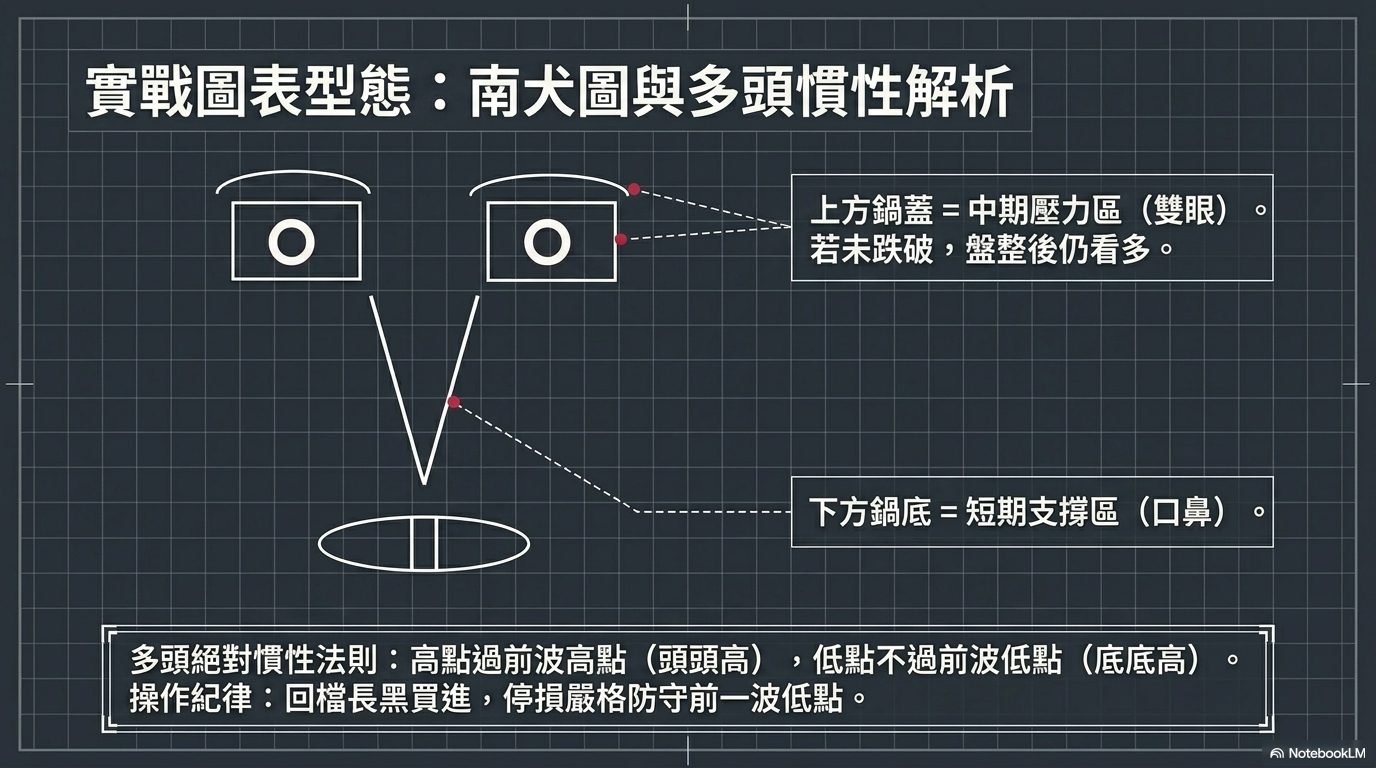
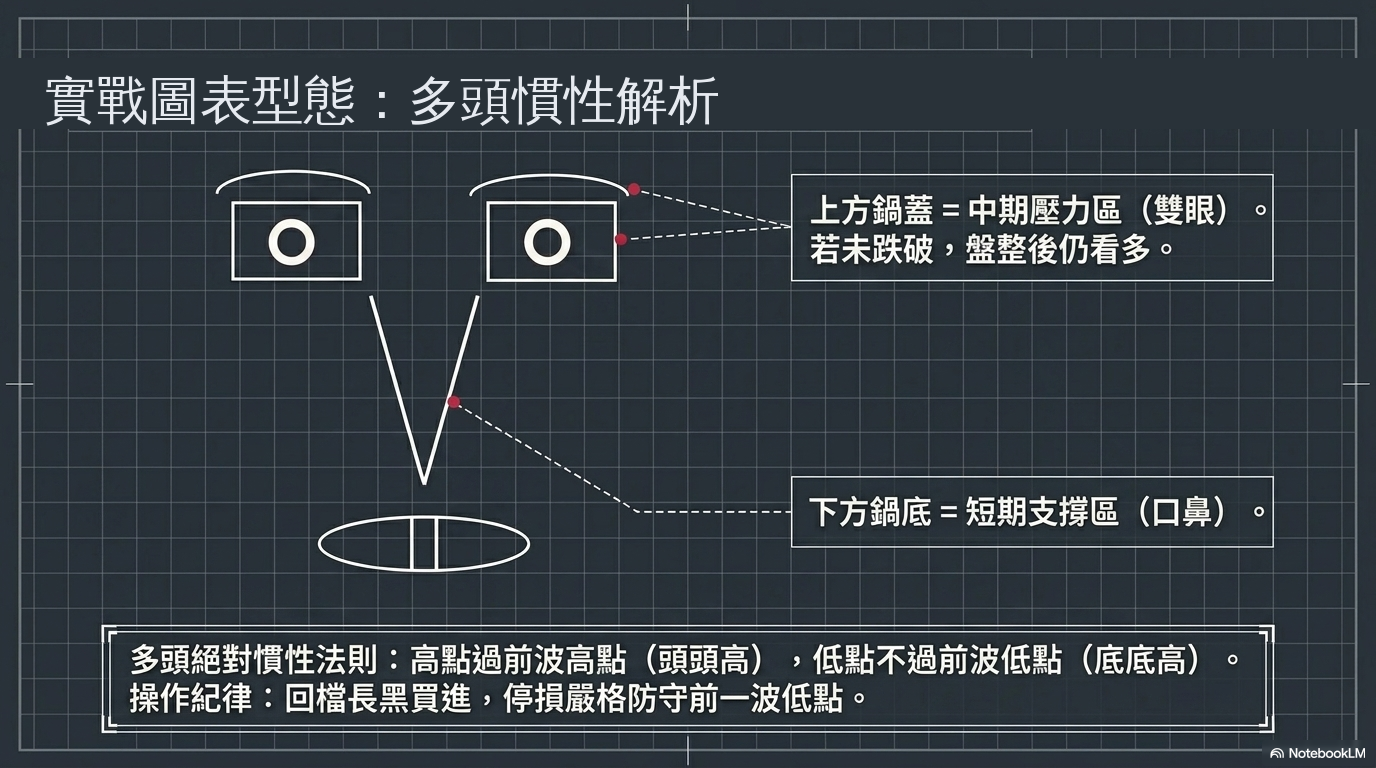
Fix slideshow overlay coverage and slide 16 dark style
- Remove HTML overlays from slides 5 and 14 (PIL-patched images now
  have correct titles drawn directly onto the PNG)
- Add back overlay CSS for slide 13 green/red annotation boxes
- Replace <h3> tags in slide 16 summary with .sum-col-head divs
- Wrap slide 16 eyebrow+title in .sum-header for proper spacing

Claude-Session: https://claude.ai/code/session_01A9Lcda2dgovrmeAKrJ8xKb

Changed region(s): [[0.0, 0.0625, 0.75, 0.1875]]

diff --git a/slideshow.html b/slideshow.html
@@ -61,62 +61,58 @@
   .slide-box.fading{ opacity:0; }
   .slide-img{ width:100%; height:auto; display:block; }
 
-  /* Overlay patches */
-  .ovr-layer{ position:absolute; inset:0; pointer-events:none; }
-  .ovr-patch{
-    position:absolute; background:var(--slide-bg);
-    display:flex; align-items:center; justify-content:center;
-    text-align:center; line-height:1.4;
-    font-family:"Noto Sans TC","Inter",sans-serif;
-  }
-  .ovr-title{
-    font-size:clamp(15px,2.8vw,28px); font-weight:700; color:#e8eaf0;
-    padding:0 4%;
-  }
-  .ovr-box-green{
-    font-size:clamp(11px,1.5vw,16px); font-weight:500; color:#e8eaf0;
-    border:2px solid #4ade80; border-radius:6px; padding:4% 6%;
-  }
-  .ovr-box-red{
-    font-size:clamp(11px,1.5vw,16px); font-weight:500; color:#e8eaf0;
-    border:2px solid #f87171; border-radius:6px; padding:4% 6%;
-  }
-
-  /* HTML summary slide */
+  /* HTML summary slide — matches dark slide style */
   .slide-html{
-    width:100%; background:var(--slide-bg); border-radius:12px; overflow:hidden;
+    width:100%; border-radius:12px; overflow:hidden;
     box-shadow:var(--shadow); border:1px solid var(--hairline);
-    padding:6% 7%; color:#e8eaf0; transition:opacity .22s ease;
+    color:#e6eaf0; transition:opacity .22s ease;
+    /* replicate slide background: dark slate + subtle grid */
+    background-color:#29323A;
+    background-image:
+      linear-gradient(rgba(180,200,220,.07) 1px, transparent 1px),
+      linear-gradient(90deg, rgba(180,200,220,.07) 1px, transparent 1px);
+    background-size:34px 34px;
+    padding: 5% 6%;
+    /* maintain 1376:768 aspect ratio */
+    aspect-ratio: 1376 / 768;
+    display:flex; flex-direction:column; justify-content:space-between;
   }
   .slide-html.fading{ opacity:0; }
+
+  /* summary slide internals */
+  .sum-header{ margin-bottom:3%; }
   .sum-eyebrow{
-    font-family:"JetBrains Mono",monospace; font-size:clamp(10px,1.2vw,13px);
-    letter-spacing:.12em; text-transform:uppercase; color:#9ab3c8; margin-bottom:3%;
+    font-family:"JetBrains Mono",monospace; font-size:clamp(9px,1vw,12px);
+    letter-spacing:.14em; text-transform:uppercase; color:#7A9BB8; margin-bottom:1.5%;
+    display:flex; align-items:center; gap:10px;
   }
+  .sum-eyebrow::before{ content:""; display:inline-block; width:18px; height:2px; background:#6A8DAB; }
   .sum-title{
     font-family:"Noto Sans TC","Inter",sans-serif;
-    font-size:clamp(18px,3.2vw,34px); font-weight:700; color:#e8eaf0;
-    margin-bottom:5%; line-height:1.2;
+    font-size:clamp(16px,2.8vw,32px); font-weight:700; color:#e8eaf0; line-height:1.15;
   }
-  .sum-grid{ display:grid; grid-template-columns:1fr 1fr 1fr; gap:2.5%; }
-  .sum-col h3{
-    font-size:clamp(11px,1.4vw,15px); color:#9ab3c8;
-    border-bottom:1px solid #2e3558; padding-bottom:4%; margin-bottom:4%;
-    font-family:"JetBrains Mono",monospace; letter-spacing:.06em;
-    text-transform:uppercase;
+  .sum-grid{ display:grid; grid-template-columns:1fr 1fr 1fr; gap:2.5%; flex:1; }
+  .sum-col{
+    background:rgba(0,0,0,.25); border:1px solid rgba(180,200,220,.12);
+    border-radius:8px; padding:3% 3.5%; display:flex; flex-direction:column;
   }
-  .sum-col ul{ list-style:none; padding:0; }
+  .sum-col-head{
+    font-family:"JetBrains Mono",monospace; font-size:clamp(8px,0.9vw,11px);
+    letter-spacing:.1em; text-transform:uppercase; color:#7A9BB8;
+    border-bottom:1px solid rgba(180,200,220,.15); padding-bottom:8%; margin-bottom:8%;
+  }
+  .sum-col ul{ list-style:none; padding:0; flex:1; overflow:hidden; }
   .sum-col li{
-    font-size:clamp(10px,1.2vw,13.5px); color:#c8d6e0;
-    padding:2.5% 0; border-bottom:1px solid #1e2240;
-    display:flex; align-items:flex-start; gap:5%;
-    line-height:1.45;
+    font-size:clamp(9px,1vw,12.5px); color:#c0ced8;
+    padding:3% 0; border-bottom:1px solid rgba(255,255,255,.05);
+    display:flex; align-items:flex-start; gap:6%; line-height:1.4;
   }
-  .sum-col li::before{ content:"›"; color:#6A8DAB; font-weight:700; flex:none; }
+  .sum-col li:last-child{ border-bottom:none; }
+  .sum-col li::before{ content:"›"; color:#6A8DAB; font-weight:700; flex:none; margin-top:1px; }
   .sum-footer{
-    margin-top:5%; padding-top:3%; border-top:1px solid #2e3558;
-    font-family:"JetBrains Mono",monospace; font-size:clamp(9px,1.1vw,12px);
-    color:#5a7088; text-align:center;
+    margin-top:3%; padding-top:2.5%; border-top:1px solid rgba(180,200,220,.15);
+    font-family:"JetBrains Mono",monospace; font-size:clamp(8px,0.85vw,11px);
+    color:#4a6070; text-align:center; letter-spacing:.06em;
   }
 
   /* Arrow buttons */
@@ -175,6 +171,12 @@
 
   .key-hint{ text-align:center; font-family:"JetBrains Mono",monospace; font-size:11.5px; color:var(--muted); margin:16px 0 32px; }
   .key{ display:inline-block; border:1px solid var(--hairline); padding:1px 7px; border-radius:4px; background:rgba(255,255,255,0.6); }
+
+  /* Overlay patches for slide 13 */
+  .ovr-layer{ position:absolute; inset:0; pointer-events:none; }
+  .ovr-patch{ position:absolute; font-size:clamp(9px,1vw,13px); line-height:1.55; padding:5% 6%; }
+  .ovr-box-green{ background:#1a3a2a; border:1px solid #2d6a4a; border-radius:6px; color:#a8d8b8; }
+  .ovr-box-red{   background:#3a1a1a; border:1px solid #6a2d2d; border-radius:6px; color:#d8a8a8; }
 
   @media(max-width:640px){
     .arrow-prev{ left:-12px; } .arrow-next{ right:-12px; }
@@ -249,13 +251,7 @@
     { type:'img', src:'slides/image2.png',  alt:'獲利的三大基石與生存鐵律' },
     { type:'img', src:'slides/image3.png',  alt:'宏觀地圖：道氏理論的時空觀' },
     { type:'img', src:'slides/image4.png',  alt:'市場節奏與空間感：艾略特波浪理論' },
-    {
-      type:'img', src:'slides/image5.png',  alt:'實戰圖表型態：多頭慣性解析',
-      overlays:[
-        { x:'0%', y:'0%', w:'100%', h:'13%', cls:'ovr-title',
-          text:'實戰圖表型態：多頭慣性解析' }
-      ]
-    },
+    { type:'img', src:'slides/image5.png',  alt:'實戰圖表型態：多頭慣性解析' },
     { type:'img', src:'slides/image6.png',  alt:'技術武器庫總覽：指標層級與戰略定位' },
     { type:'img', src:'slides/image7.png',  alt:'均線系統防線：配合主力作手的推進節奏' },
     { type:'img', src:'slides/image8.png',  alt:'季線核心戰法一：生命線突破的大賺策略' },
@@ -272,23 +268,19 @@
           text:'戰術賣點：\n除息前 1 天果斷賣出，通常不參加除權息。' }
       ]
     },
-    {
-      type:'img', src:'slides/image14.png', alt:'系統化決策流程：從圖表到執行的標準作業程序',
-      overlays:[
-        { x:'0%', y:'0%', w:'100%', h:'14%', cls:'ovr-title',
-          text:'系統化決策流程：從圖表到執行的標準作業程序' }
-      ]
-    },
+    { type:'img', src:'slides/image14.png', alt:'系統化決策流程：從圖表到執行的標準作業程序' },
     { type:'img', src:'slides/image15.png', alt:'趨勢不容易形成，一旦形成便不容易改變' },
     {
       type:'html', alt:'總結',
       html:`
         <div class="slide-html" id="html-slide">
-          <div class="sum-eyebrow">股票交易戰術指南 · 總結</div>
-          <div class="sum-title">三大支柱 × 核心紀律</div>
+          <div class="sum-header">
+            <div class="sum-eyebrow">股票交易戰術指南 · 總結</div>
+            <div class="sum-title">三大支柱 × 核心紀律</div>
+          </div>
           <div class="sum-grid">
             <div class="sum-col">
-              <h3>01 · 技術分析</h3>
+              <div class="sum-col-head">01 · 技術分析</div>
               <ul>
                 <li>道氏理論：僅在多頭方向操作，以次要趨勢找交易點</li>
                 <li>波浪理論：在第 2、4、C 波修正回檔 50% 處買黑K</li>
@@ -300,7 +292,7 @@
               </ul>
             </div>
             <div class="sum-col">
-              <h3>02 · 季線三大戰法</h3>
+              <div class="sum-col-head">02 · 季線三大戰法</div>
               <ul>
                 <li>戰法一 突破：K 線由下往上突破季線即買，跌破即賣</li>
                 <li>戰法二 回測：強勢股靠近季線時買進，跌破停損</li>
@@ -310,7 +302,7 @@
               </ul>
             </div>
             <div class="sum-col">
-              <h3>03 · 資金與心理</h3>
+              <div class="sum-col-head">03 · 資金與心理</div>
               <ul>
                 <li>大數法則：務實停損 10%，在數學上徹底切斷大賠</li>
                 <li>停利 20% ＞ 停損 10%，長期累積「大賺小賠」</li>